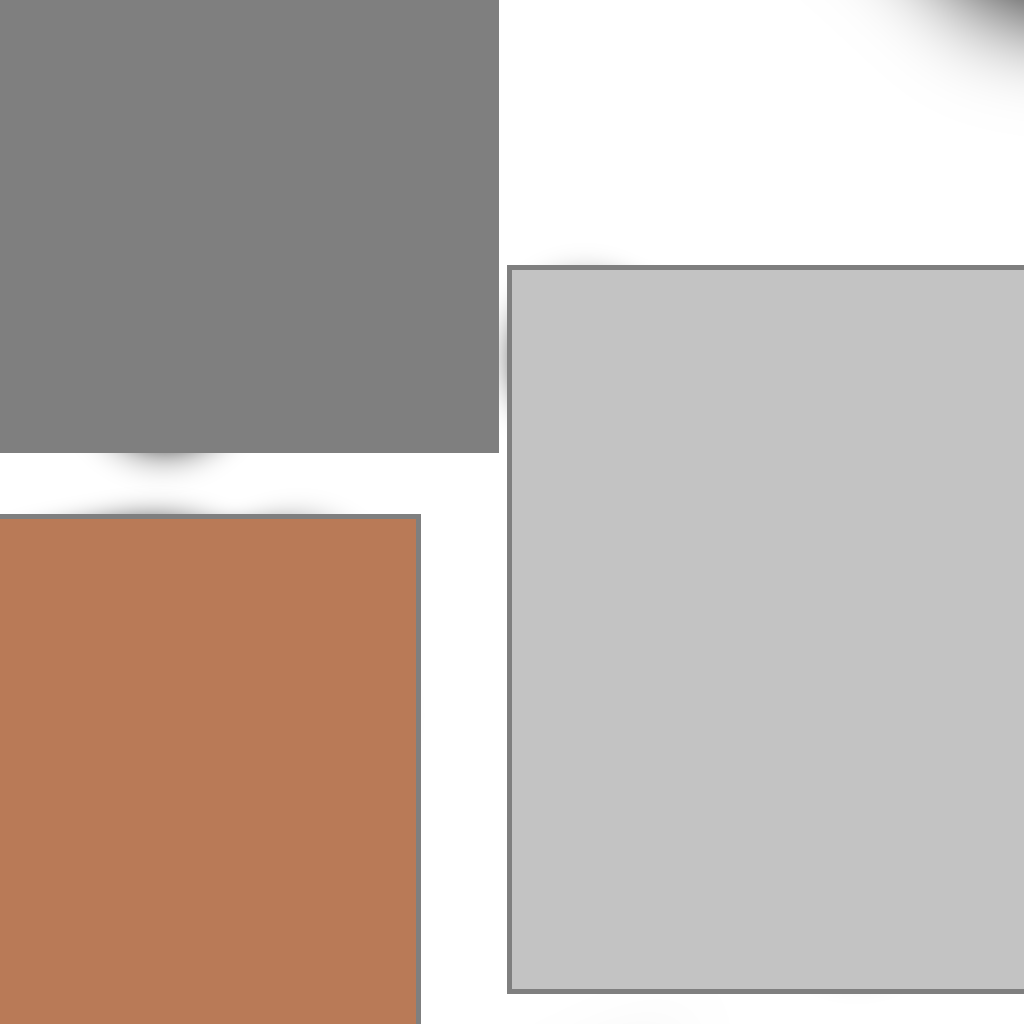
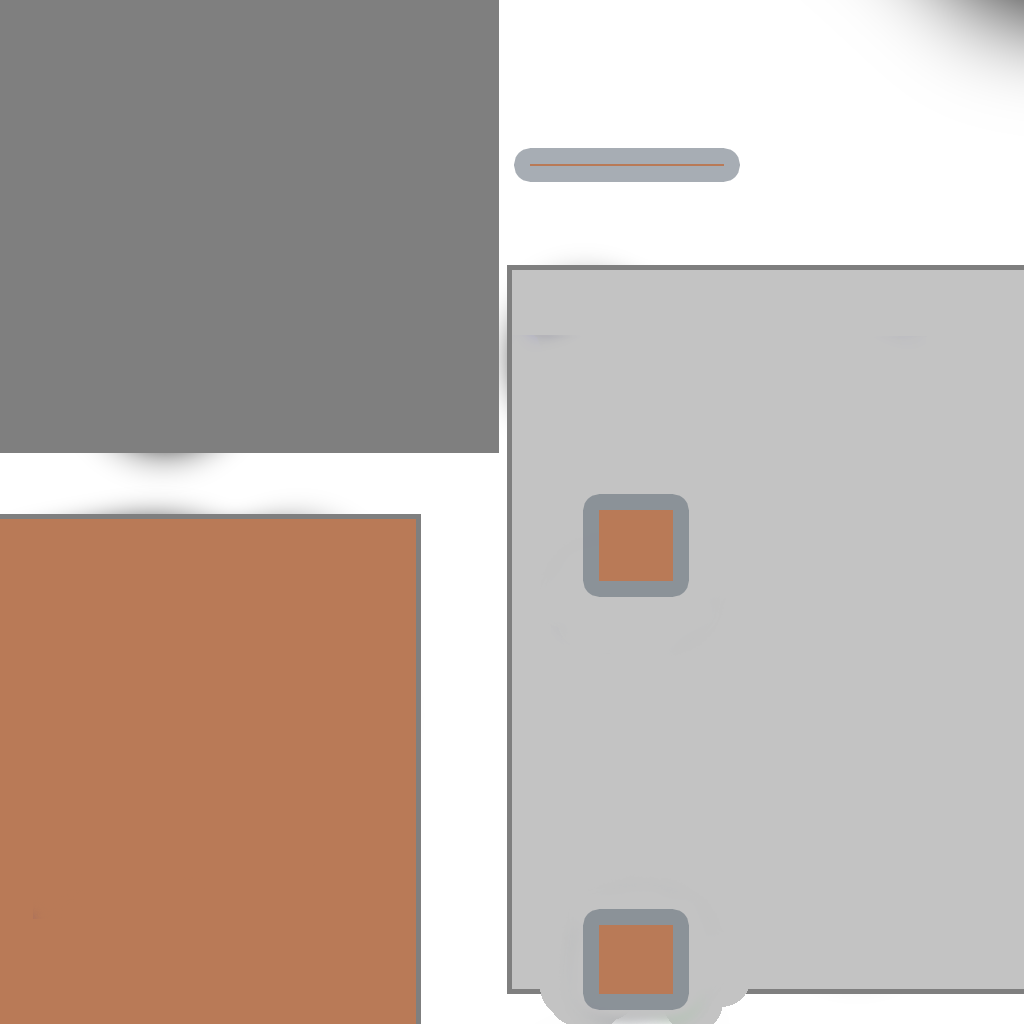
improved appearance of shadows

Changed region(s): [[0.5312, 0.875, 0.7188, 1.0], [0.5625, 0.4688, 0.6875, 0.5938], [0.5, 0.125, 0.7188, 0.1875]]

diff --git a/NewTrafficRacer/Main/Modes/GameMode.cs b/NewTrafficRacer/Main/Modes/GameMode.cs
@@ -20,7 +20,7 @@ namespace NewTrafficRacer.Modes
 	{
         //Parameters
         private const int coinPoints = 1000;
-		private Vector3 initialLightPosition = new Vector3(10, 10, 10);
+		private Vector3 initialLightPosition = new Vector3(5, 5, 5);
         private Vector3 lightDirection = new Vector3(-1, -1, -1);
         private static Vector4 ambientColor = new Vector4(0.48f, 0.54f, 0.6f, 1f);
         private static Vector4 diffuseColor = new Vector4(1f, 0.8f, 0.8f, 1f);
@@ -279,6 +279,7 @@ namespace NewTrafficRacer.Modes
 			//Update graphics state
 			graphics.BlendState = BlendState.Opaque;
 			graphics.DepthStencilState = DepthStencilState.Default;
+            graphics.RasterizerState = new RasterizerState() { CullMode = CullMode.CullClockwiseFace };
 
             //Set lighting parameters
             //effect.LightViewProjection = lighting.View * lighting.Projection; //COMMENTED FOR COMPILE
@@ -294,10 +295,11 @@ namespace NewTrafficRacer.Modes
 			environment.Render(gameTime, graphics, effect);
 			player.Render(gameTime, effect);
 			trafficManager.RenderTraffic(gameTime, effect);
-            
 
-			//Render scene
-			graphics.SetRenderTarget(null);
+
+            //Render scene
+            graphics.RasterizerState = new RasterizerState() { CullMode = CullMode.CullCounterClockwiseFace };
+            graphics.SetRenderTarget(null);
 
 			postProcessor.Begin();
 
@@ -340,12 +342,12 @@ namespace NewTrafficRacer.Modes
                 spriteBatch.Begin();
                 fpsUI.Render(spriteBatch, 600, 800);
                 spriteBatch.End();
-            }
 
-			//DEBUG: render shadow map
-			spriteBatch.Begin(0, BlendState.Opaque, SamplerState.AnisotropicClamp);
-			spriteBatch.Draw(lighting.ShadowMap, new Rectangle(0, 0, 256, 256), Color.White);
-			spriteBatch.End();
+                //DEBUG: show shadow map
+                spriteBatch.Begin(0, BlendState.Opaque, SamplerState.AnisotropicClamp);
+                spriteBatch.Draw(lighting.ShadowMap, new Rectangle(0, graphics.Viewport.Height - 256, 256, 256), Color.White);
+                spriteBatch.End();
+            }
 		}
 	}
 

diff --git a/NewTrafficRacer/Main/Environment/RoadSegment.cs b/NewTrafficRacer/Main/Environment/RoadSegment.cs
@@ -48,20 +48,21 @@ namespace NewTrafficRacer.Environment
             road.Position = new Vector3(road.Position.X, Y, road.Position.Z);
             leftRail.Position = new Vector3(leftRail.Position.X, Y, leftRail.Position.Z);
             rightRail.Position = new Vector3(rightRail.Position.X, Y, rightRail.Position.Z);
-            if (effect.CurrentTechnique.Name.Equals("ShadowedScene"))
+            if (effect.CurrentTechnique.Name == "ShadowedScene")
             {
                 GameMode.RENDER_FIX(effect);
                 ground.Render(graphics, effect);
+
+                if (HighlightedLane >= 0)
+                {
+                    var X = (HighlightedLane - Road.NumLanes / 2 + 1) * Road.LaneWidth * 0.95f;
+                    highlight.Position = new Vector3(X, Y, 0);
+                    highlight.Render(gameTime, effect);
+                }
+
+                road.Render(gameTime, effect);
             }
 
-            if (HighlightedLane >= 0)
-            {
-                var X = (HighlightedLane - Road.NumLanes / 2 + 1) * Road.LaneWidth * 0.95f;
-                highlight.Position = new Vector3(X, Y, 0);
-                highlight.Render(gameTime, effect);
-            }
-
-            road.Render(gameTime, effect);
             leftRail.Render(gameTime, effect);
             rightRail.Render(gameTime, effect);
         }
